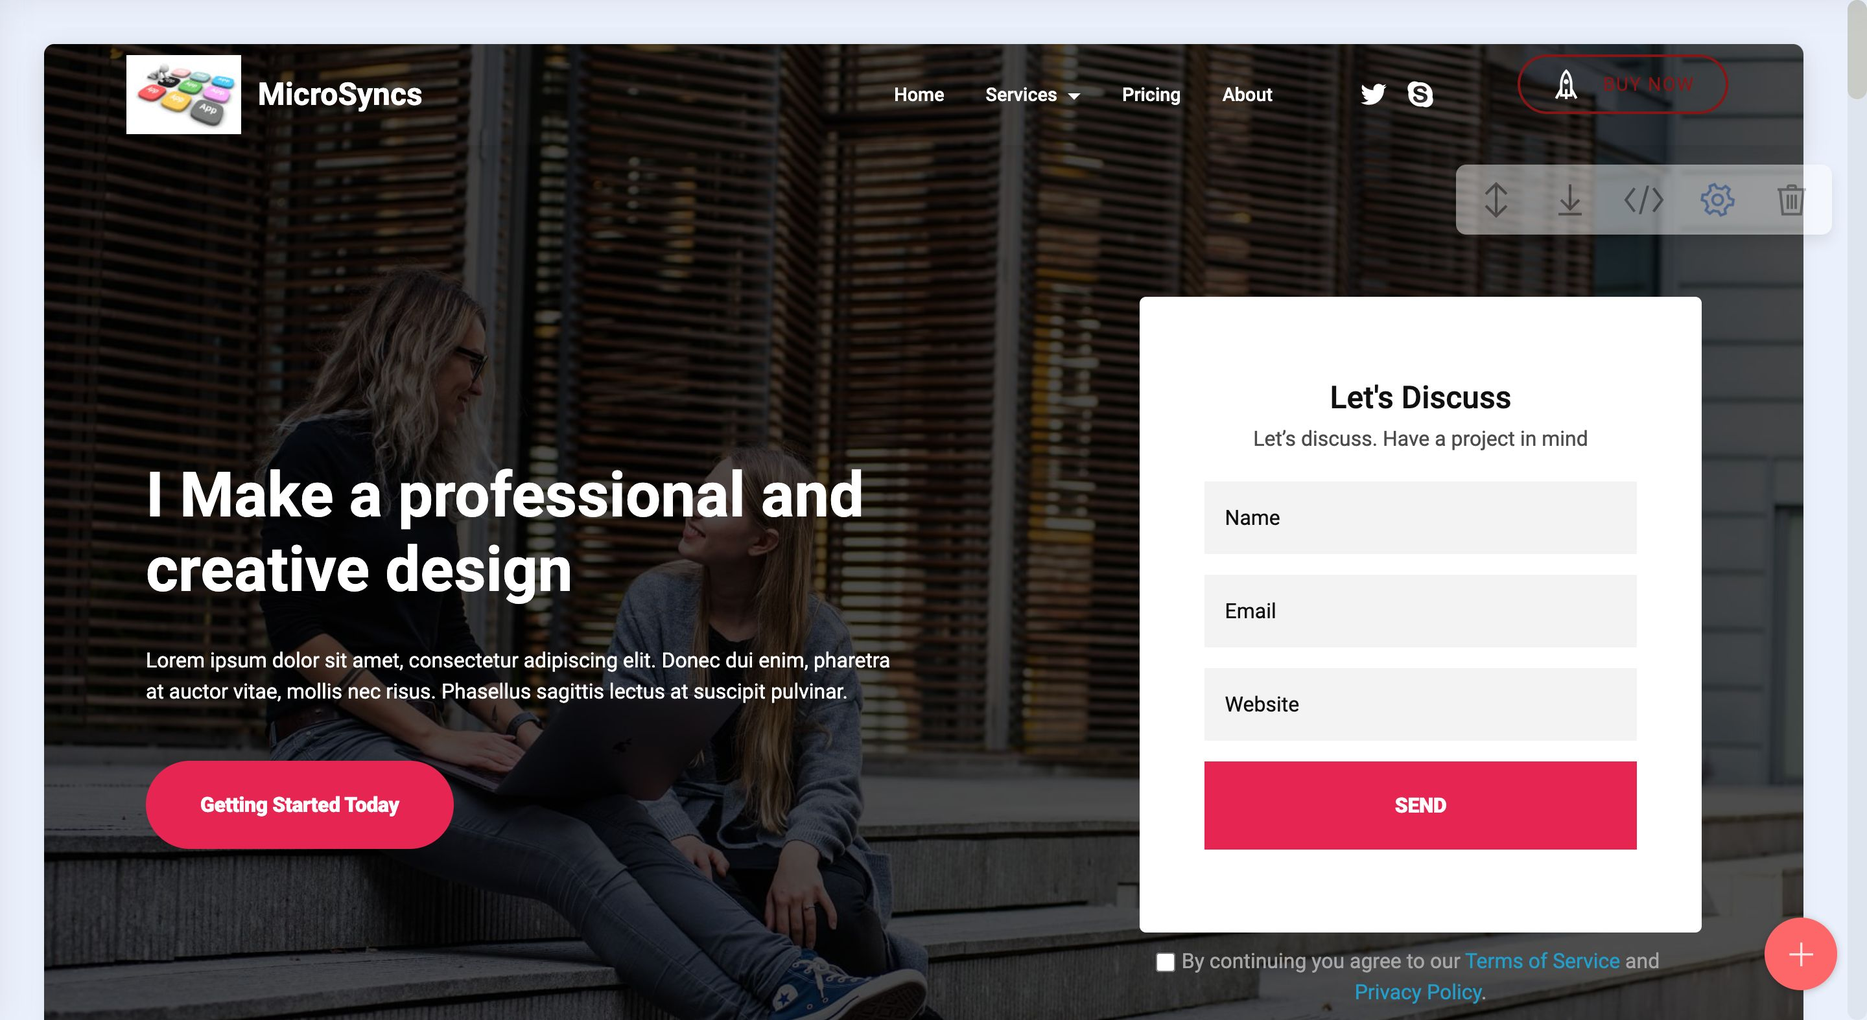
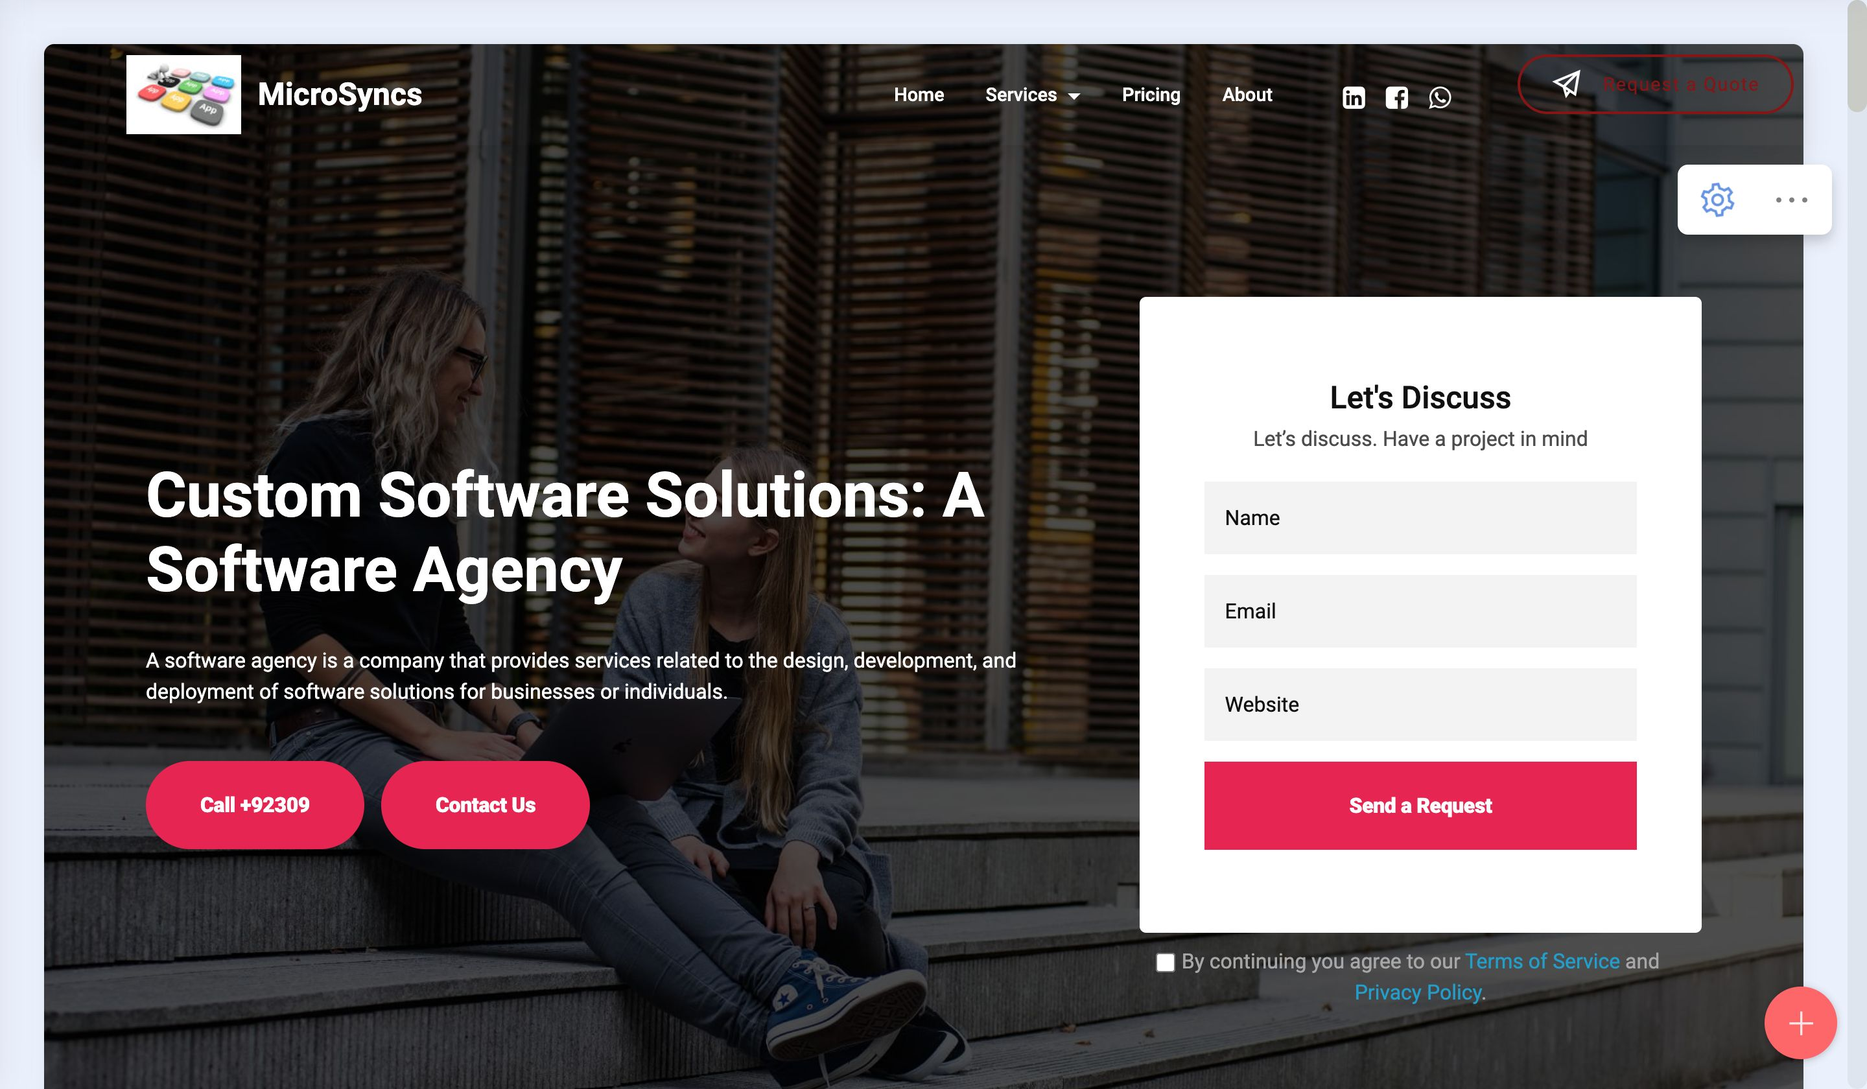
dsdsds

diff --git a/index.html b/index.html
@@ -13,9 +13,9 @@
   <title>Home</title>
   <link rel="stylesheet" href="assets/web/assets/mobirise-icons2/mobirise2.css">
   <link rel="stylesheet" href="assets/web/assets/mobirise-icons/mobirise-icons.css">
+  <link rel="stylesheet" href="assets/FontAwesome/css/font-awesome.css">
   <link rel="stylesheet" href="assets/web/assets/mobirise-icons-bold/mobirise-icons-bold.css">
   <link rel="stylesheet" href="assets/icon54-v3/style.css">
-  <link rel="stylesheet" href="assets/FontAwesome/css/font-awesome.css">
   <link rel="stylesheet" href="assets/tether/tether.min.css">
   <link rel="stylesheet" href="assets/bootstrap/css/bootstrap.min.css">
   <link rel="stylesheet" href="assets/bootstrap/css/bootstrap-grid.min.css">
@@ -45,7 +45,7 @@
             <div class="navbar-brand">
                 <span class="navbar-logo">
                     <a href="#">
-                        <img src="assets/images/mbr-121x83.jpg" alt="" style="height: 3.8rem;">
+                        <img src="assets/images/mbr-121x83.webp" alt="" style="height: 3.8rem;">
                     </a>
                 </span>
                 <span class="navbar-caption-wrap"><a class="navbar-caption text-white text-primary display-5" href="https://microsyncs.com/">MicroSyncs</a></span>
@@ -63,7 +63,7 @@
                         <a class="nav-link link text-white text-primary display-4" href="https://microsyncs.com/">
                             Home</a>
                     </li>
-                    <li class="nav-item dropdown"><a class="nav-link link dropdown-toggle text-white display-4" href="#" aria-expanded="false" data-toggle="dropdown-submenu">Services</a>
+                    <li class="nav-item dropdown"><a class="nav-link link dropdown-toggle text-white display-4" href="#" aria-expanded="true" data-toggle="dropdown-submenu">Services</a>
                         <div class="dropdown-menu"><a class="dropdown-item text-white display-4" href="#" aria-expanded="false">Web Development</a><a class="dropdown-item text-white display-4" href="#" aria-expanded="false">Mobile Application Development</a><a class="dropdown-item text-white display-4" href="#" aria-expanded="false">UI / UX</a></div>
                     </li>
                     
@@ -72,18 +72,20 @@
                     </li>
                     <li class="nav-item"><a class="nav-link link text-white display-4" href="#">About</a></li></ul>
                 <div class="icons-menu">
-                    <a href="#" target="_blank">
-                        <span class="p-2 mbr-iconfont socicon-twitter socicon"></span>
+                    <a href="https://www.linkedin.com/in/micro-syncs-35b022273/" target="_blank">
+                        <span class="p-2 mbr-iconfont fa-linkedin-square fa" style="color: rgb(15, 118, 153); fill: rgb(15, 118, 153);"></span>
                     </a>
-                    <a href="#" target="_blank">
-                        <span class="p-2 mbr-iconfont socicon-skype socicon"></span>
+                    <a href="https://www.facebook.com/profile.php?id=100092535420958" target="_blank">
+                        <span class="p-2 mbr-iconfont fa-facebook-square fa" style="color: rgb(15, 118, 153); fill: rgb(15, 118, 153);"></span>
                     </a>
-                    
+                    <a href="https://wa.me/923094160140">
+                        <span class="p-2 mbr-iconfont fa-whatsapp fa"></span>
+                    </a>
                     
                     
                     
                 </div>
-                <div class="navbar-buttons mbr-section-btn"><a class="btn btn-sm btn-primary-outline display-4" href="#"><span class="mobi-mbri mobi-mbri-rocket mbr-iconfont mbr-iconfont-btn"></span>BUY NOW</a></div>
+                <div class="navbar-buttons mbr-section-btn"><a class="btn btn-sm btn-primary-outline display-4" href="#"><span class="mobi-mbri mobi-mbri-paper-plane mbr-iconfont mbr-iconfont-btn"></span>Request a Quote</a></div>
             </div>
         </div>
     </nav>
@@ -101,12 +103,12 @@
                 <div class="title">
                     <h2 class="mbr-section-title mbr-regular align-left mbr-fonts-style mbr-white display-2">Custom Software Solutions: A Software Agency</h2>
                     <p class="mbr-section-subtitle align-left mbr-fonts-style mbr-white block-left display-7">A software agency is a company that provides services related to the design, development, and deployment of software solutions for businesses or individuals.</p>
-                    <div class="mbr-section-btn align-left"><a class="btn btn-danger display-7" href="#">Getting Started Today</a></div>
+                    <div class="mbr-section-btn align-left"><a class="btn btn-danger display-7" href="#">Call +923094160140</a> <a class="btn btn-danger display-7" href="#">Contact Us</a></div>
                 </div>
             </div>
 
             <div class="col-lg-5 my-auto pb-4 mbr-form" data-form-type="formoid">
-                <form action="https://mobirise.eu/" method="POST" class="mbr-form form-with-styler" data-form-title="Form Name"><input type="hidden" name="email" data-form-email="true" value="ZLulciZHAiStS0bgZQ8grfnK5sRh/eE9Ft0zuuGO0GAJBIUDASGOQiGjKd3RjRA3cKsrIeWnaIOjLCGB/HmPTzPyxzMYq8EkvPBvVmU4C8GFnDr1Uf/VLghOE1CV3Y9c.1EKCK3gUlzsWR1BJsFy5WGKvVQ5onVzljrCBHwvRasiEVUWLcNOVhKHWKDgiboH2zczxxChdFZWEUTKhr709OTvZiVE8Y9K10bwyDFHEZ0JZ7hW06gw9rqykWxMDStOV">
+                <form action="https://mobirise.eu/" method="POST" class="mbr-form form-with-styler" data-form-title="Form Name"><input type="hidden" name="email" data-form-email="true" value="n+VuAkx/1Iua/P04gbhDDx2gTvHyCxmbzgbFmSUjFIAW86eVc11GViRqYtrVtTP26v6NQSo+48mfsBysAXXqAaKdfoBmIlAYac9RNtqeUjEy9PnxXkLxwuPa8fYgIxxX.2WpiQXGangosSmFo/cbIRJJ4/bQBNAr2cul+RwSxxoXiALbhgktutJ2uyDMR9RjRt0SQ+8YXtBlwFHV5lq6ZNJ4Yb91odMOIifm+vuF2CRUBtonVpqqzcg17VkewgV3N">
                     <div class="form-row">
                         <div hidden="hidden" data-form-alert="" class="alert alert-success col-12">Thanks for filling out
                             the form!</div>
@@ -127,7 +129,7 @@
                         <div data-for="Website" class="col-lg-12 form-group">
                             <input type="text" name="Website" placeholder="Website" data-form-field="Website" class="form-control display-7" required="required" id="Website-header3-7">
                         </div>
-                        <div class="col-auto form-btn"><button type="submit" class="btn btn-danger link-btn display-7">SEND</button></div>
+                        <div class="col-auto form-btn"><button type="submit" class="btn btn-danger link-btn display-7">Send a Request</button></div>
                     </div>
                 <span class="gdpr-block">
 <label>
@@ -311,7 +313,7 @@
 
             <div class="col-md-12 col-lg-5">
                 <div class="mbr-figure">
-                    <img src="assets/images/mbr-965x643.jpg" alt="">
+                    <img src="assets/images/mbr-965x643.webp" alt="">
                 </div>
             </div>
             <div class="col-md-12 col-lg-7 left-block">
@@ -399,7 +401,7 @@
 						<h5 class="link align-left mbr-fonts-style display-5">Lets Talk</h5>
 					</div>
 					<div class="card-icon">
-						<span class="mbr-iconfont icon-arrow mobi-mbri-right mobi-mbri"></span>
+						<a href="https://wa.me/923094160140"><span class="mbr-iconfont icon-arrow mobi-mbri-right mobi-mbri"></span></a>
 					</div>
 				</div>
 			</div>
@@ -499,7 +501,7 @@
 			<div class="card col-12 col-md-6 col-lg-3">
 				<div class="img-block">
 					<div class="wrapper-img">
-						<img src="assets/images/office-1.jpg">
+						<img src="assets/images/office-1.webp">
 					</div>
 					<div class="title-block">
 						<div class="mbr-section-btn align-center"><a class="btn btn-danger display-4" href="#">SEE PREVIEW</a></div>
@@ -511,7 +513,7 @@
 			<div class="card col-12 col-md-6 col-lg-3">
 				<div class="img-block">
 					<div class="wrapper-img">
-						<img src="assets/images/office-2.jpg">
+						<img src="assets/images/office-2.webp">
 					</div>
 					<div class="title-block">
 
@@ -524,7 +526,7 @@
 			<div class="card col-12 col-md-6 col-lg-3">
 				<div class="img-block">
 					<div class="wrapper-img">
-						<img src="assets/images/office-3.jpg">
+						<img src="assets/images/office-3.webp">
 					</div>
 					<div class="title-block">
 						<div class="mbr-section-btn align-center"><a class="btn btn-danger display-4" href="#">SEE PREVIEW</a></div>
@@ -536,7 +538,7 @@
 			<div class="card col-12 col-md-6 col-lg-3">
 				<div class="img-block">
 					<div class="wrapper-img">
-						<img src="assets/images/office-1.jpg">
+						<img src="assets/images/office-1.webp">
 					</div>
 					<div class="title-block">
 						<div class="mbr-section-btn align-center"><a class="btn btn-danger display-4" href="#">SEE PREVIEW</a></div>
@@ -626,7 +628,7 @@
                         <div class="col-md-6 img-card col-lg-3">                          
                             <div class="img-block">
                               <div class="wrapper-img">
-                                  <img src="assets/images/website1-736x736.jpg" alt="" title="">
+                                  <img src="assets/images/website1-736x736.webp" alt="" title="">
                               </div>
                               <div class="title-block">
                                 <h4 class="mbr-fonts-style signature mbr-bold display-5">Website Design&nbsp;</h4>                   
@@ -638,7 +640,7 @@
                             
                             <div class="img-block">
                               <div class="wrapper-img">
-                                  <img src="assets/images/marketing-736x736.jpg" alt="" title="">
+                                  <img src="assets/images/marketing-736x736.webp" alt="" title="">
                                  
                               </div>
                               <div class="title-block">
@@ -651,7 +653,7 @@
                         <div class="col-md-6 img-card col-lg-3">
                             <div class="img-block">
                                 <div class="wrapper-img">
-                                    <img src="assets/images/webdevelopment-736x736.jpg" alt="" title="">
+                                    <img src="assets/images/webdevelopment-736x736.webp" alt="" title="">
                                 </div>
                                 <div class="title-block">
                                   <h4 class="mbr-fonts-style signature mbr-bold display-5">Web Development</h4>                   
@@ -663,7 +665,7 @@
                             
                             <div class="img-block">
                                 <div class="wrapper-img">
-                                    <img src="assets/images/electric.jpg">
+                                    <img src="assets/images/electric.webp">
                                 </div>
                                 <div class="title-block">
                                   <h4 class="mbr-fonts-style signature mbr-bold display-5"><a href="#" class="mbr-bold text-white">Electric Design</a></h4>                   
@@ -679,7 +681,7 @@
                           
                           <div class="img-block">
                               <div class="wrapper-img">
-                                  <img src="assets/images/website2-736x736.jpg" alt="" title="">
+                                  <img src="assets/images/website2-736x736.webp" alt="" title="">
                               </div>
                               <div class="title-block">
                                 <h4 class="mbr-fonts-style signature mbr-bold display-5">Website Design&nbsp;</h4>                   
@@ -690,7 +692,7 @@
                         <div class="col-md-6 img-card col-lg-3">
                             <div class="img-block">
                                 <div class="wrapper-img">
-                                    <img src="assets/images/marketing-736x736.jpg" alt="" title="">
+                                    <img src="assets/images/marketing-736x736.webp" alt="" title="">
                                 </div>
                                 <div class="title-block">
                                   <h4 class="mbr-fonts-style signature mbr-bold display-5">Digital Marketing</h4>                   
@@ -701,7 +703,7 @@
                         <div class="col-md-6 img-card col-lg-3">
                           <div class="img-block">
                               <div class="wrapper-img">
-                                  <img src="assets/images/webdevelopment-736x736.jpg" alt="" title="">
+                                  <img src="assets/images/webdevelopment-736x736.webp" alt="" title="">
                               </div>
                               <div class="title-block">
                                 <h4 class="mbr-fonts-style signature mbr-bold display-5">Web Development</h4>                   
@@ -712,7 +714,7 @@
                         <div class="col-md-6 img-card col-lg-3">
                           <div class="img-block">
                             <div class="wrapper-img">
-                                <img src="assets/images/bike.jpg">
+                                <img src="assets/images/bike.webp">
                             </div>
                             <div class="title-block">
                               <h4 class="mbr-fonts-style signature mbr-bold display-5"><a href="#" class="mbr-bold text-white">Bike Design</a></h4>                   
@@ -767,7 +769,7 @@
                       bibendum. Proin vitae turpis ipsum.</p>
                   <div class="card-people">
                     <div class="user_image">
-                      <img src="assets/images/team1.jpg">
+                      <img src="assets/images/team1.webp">
                     </div>
                     <div class="wrapper-name">
                       <div class="mbr-author-name mbr-semibold mbr-fonts-style mbr-white display-7">
@@ -798,7 +800,7 @@
                         bibendum. Proin vitae turpis ipsum.</p>
                     <div class="card-people">
                       <div class="user_image">
-                        <img src="assets/images/team2.jpg">
+                        <img src="assets/images/team2.webp">
                       </div>
                       <div class="wrapper-name">
                         <div class="mbr-author-name mbr-semibold mbr-fonts-style mbr-white display-7">
@@ -828,7 +830,7 @@
                         bibendum. Proin vitae turpis ipsum.</p>
                     <div class="card-people">
                       <div class="user_image">
-                        <img src="assets/images/team4.jpg">
+                        <img src="assets/images/team4.webp">
                       </div>
                       <div class="wrapper-name">
                         <div class="mbr-author-name mbr-semibold mbr-fonts-style mbr-white display-7">
@@ -858,7 +860,7 @@
                         bibendum. Proin vitae turpis ipsum.</p>
                     <div class="card-people">
                       <div class="user_image">
-                        <img src="assets/images/team1.jpg">
+                        <img src="assets/images/team1.webp">
                       </div>
                       <div class="wrapper-name">
                         <div class="mbr-author-name mbr-semibold mbr-fonts-style mbr-white display-7">
@@ -883,7 +885,7 @@
         <div class="media-container-row">
             <div class="title col-12 align-center">
                 <h2 class="mbr-bold mbr-fonts-style mbr-section-title align-center display-2">Our Professionals</h2>
-                <h3 class="mbr-section-subtitle mbr-semibold pb-3 mbr-fonts-style display-7">Lorem ipsum dolor sit amet consectetur adipisicing elit. <br> Voluptatibus commodi laudantium</h3>
+                <h3 class="mbr-section-subtitle mbr-semibold pb-3 mbr-fonts-style display-7">Our team consists of highly skilled and experienced professionals who are dedicated to delivering high-quality services to our clients. They bring a wealth of knowledge and expertise to each project, ensuring that our clients receive the best possible solutions to meet their needs.</h3>
             </div>
         </div>
     </div>
@@ -895,14 +897,12 @@
                  
                     <div class="card-block">
                       <div class="testimonial-photo">
-                          <img src="assets/images/team1.jpg">
+                          <img src="assets/images/team1.webp">
                       </div>
                     </div>
                     <div class="card-footer align-center">
-                      <div class="mbr-author-name mbr-semibold mbr-fonts-style display-5">
-                          John Smith
-                      </div>
-                      <div class="mbr-author-desc mbr-regular mbr-fonts-style display-4">General Manager</div>
+                      <div class="mbr-author-name mbr-semibold mbr-fonts-style display-5">EHSAN UL HAQ</div>
+                      <div class="mbr-author-desc mbr-regular mbr-fonts-style display-4">CEO</div>
 
                       <div class="social-list">
                           <a href="https://twitter.com/mobirise" target="_blank">
@@ -923,13 +923,13 @@
                 <div class="panel-item">
                     <div class="card-block">
                         <div class="testimonial-photo">
-                            <img src="assets/images/team3.jpg">
+                            <img src="assets/images/team3.webp">
                         </div>
                     </div>
                     <div class="card-footer">
                         <div class="mbr-author-name mbr-semibold mbr-fonts-style display-5">
-                            Ann Jane</div>
-                        <div class="mbr-author-desc mbr-regular mbr-fonts-style display-4">Senior Digital Strategist</div>
+                            MOHSIN ALI</div>
+                        <div class="mbr-author-desc mbr-regular mbr-fonts-style display-4">Solution Architecture</div>
 
                         <div class="social-list">
                             <a href="https://twitter.com/mobirise" target="_blank">
@@ -951,14 +951,14 @@
                 <div class="panel-item">
                     <div class="card-block">
                         <div class="testimonial-photo">
-                            <img src="assets/images/team2.jpg">
+                            <img src="assets/images/team2.webp">
                         </div>
 
                     </div>
                     <div class="card-footer">
                         <div class="mbr-author-name mbr-semibold mbr-fonts-style display-5">
-                            Ben James</div>
-                        <div class="mbr-author-desc mbr-regular mbr-fonts-style display-4">Managing Director</div>
+                            AB.Q</div>
+                        <div class="mbr-author-desc mbr-regular mbr-fonts-style display-4">UI/UX</div>
 
                         <div class="social-list">
                             <a href="https://twitter.com/mobirise" target="_blank">
@@ -1016,7 +1016,7 @@
             
             <div class="col-lg-7 col-md-12 mx-auto mbr-form" data-form-type="formoid">
               <!--Formbuilder Form-->
-              <form action="https://mobirise.eu/" method="POST" class="mbr-form form-with-styler" data-form-title="Form Name"><input type="hidden" name="email" data-form-email="true" value="VRB1gb5WYVHAeBZGrdPpcAFSCrF9Oj60IWwDuXM/L14SKuNXnEbhCbH6On4AYtFvpLhpdP3VxHK+PR5ptPzmJGIezqJjLLqHYB5DZrNjLLsciiICN9vNnOg78lVEzL++.3CKy2bBYrcAIxNkYTp5PO+j6X9vr8aaMmsMN49/oMBBqdUBDUdClA24scjqVVFHDDDVjg1+XiVVA3G8l5q3neO2wz+7kDHa2k4y2ETzQJaIFb0WwKJZGFOY2pTC1lIWn">
+              <form action="https://mobirise.eu/" method="POST" class="mbr-form form-with-styler" data-form-title="Form Name"><input type="hidden" name="email" data-form-email="true" value="SqWWop0a1LdDDfyVnSSqEvClOXItqpDQtChF+RnS9MIvBGEW0nt/jcW2K3+61k4/CrVW5rLdMIfVfmi09ZesAsskk5JXsaYwP3CdSEbVKPN2B0KLe7Wmt/GI/ePyduaV.qn50Uibj6w+v0s9CNMQZu6BU94cAfVrDBO4wopPM9h3muQ9fDEImW+rmmbkBV70YFMaMngCpXW8g4Gx7Lb9fXNnw9JNYSp2PEcPKcHFGsalgG9Sbj3lMuAb7j65cLi16">
                   <div class="form-row">
                     <div hidden="hidden" data-form-alert="" class="alert alert-success col-12">Thanks for filling out
                         the form!</div>

diff --git a/assets/mobirise/css/mbr-additional.css b/assets/mobirise/css/mbr-additional.css
@@ -808,7 +808,6 @@ hr {
   min-height: 77px;
   transition: all 0.3s;
   background: #040402;
-  background: none;
 }
 .cid-tBM2sRrO19 .navbar.opened {
   transition: all 0.3s;
@@ -1138,7 +1137,7 @@ hr {
 .cid-tBM7vAbYQU {
   padding-top: 195px;
   padding-bottom: 105px;
-  background-image: url("../../../assets/images/women-1.jpg");
+  background-image: url("../../../assets/images/women-1.webp");
 }
 .cid-tBM7vAbYQU .mbr-overlay {
   background-color: #000000;
@@ -1491,7 +1490,7 @@ hr {
 .cid-tBLQuFls5n {
   padding-top: 30px;
   padding-bottom: 30px;
-  background-image: url("../../../assets/images/mbr-1920x1440.jpg");
+  background-image: url("../../../assets/images/mbr-1920x1440.webp");
 }
 .cid-tBLQuFls5n .mbr-text {
   margin-bottom: 3.2rem;
@@ -1659,7 +1658,7 @@ hr {
   }
 }
 .cid-rRBIOaOVKu .box {
-  background-image: url("../../../assets/images/office-3.jpg");
+  background-image: url("../../../assets/images/office-3.webp");
   background-size: cover;
   background-position: center;
   height: 380px;
@@ -1765,7 +1764,7 @@ hr {
 .cid-tBLQlTSoHo {
   padding-top: 75px;
   padding-bottom: 45px;
-  background-image: url("../../../assets/images/man-3.jpg");
+  background-image: url("../../../assets/images/man-3.webp");
 }
 @media (max-width: 767px) {
   .cid-tBLQlTSoHo h2 {
@@ -2032,7 +2031,7 @@ hr {
   color: #ffffff;
 }
 .cid-rRBIRc2YW9 {
-  background-image: url("../../../assets/images/man-3.jpg");
+  background-image: url("../../../assets/images/man-3.webp");
 }
 .cid-rRBIRc2YW9 .carousel-item {
   -webkit-justify-content: center;
